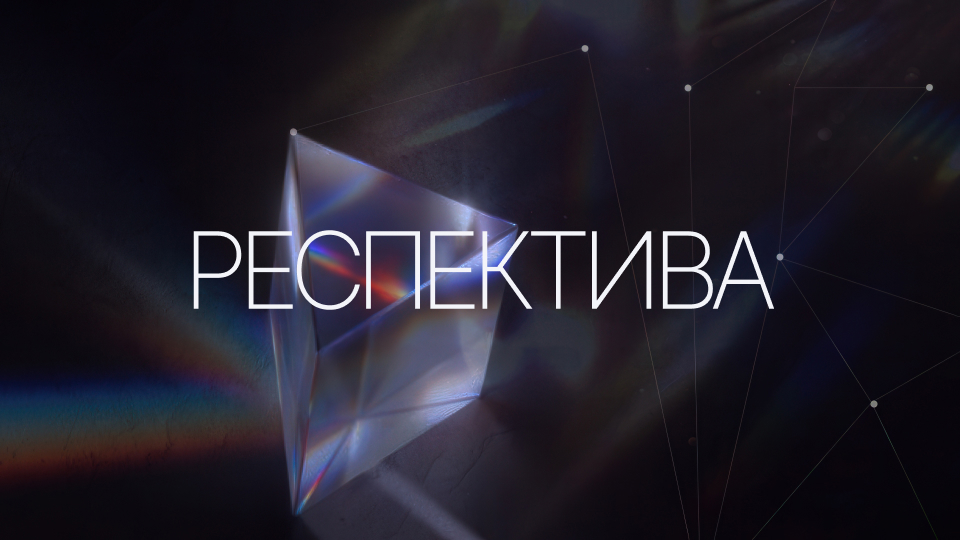
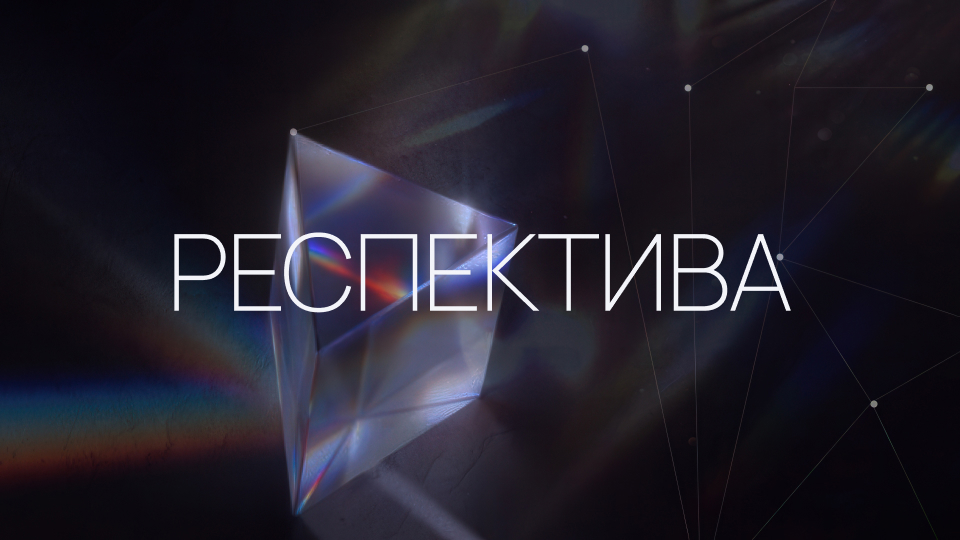
c

Changed region(s): [[0.1562, 0.4148, 0.8438, 0.5926]]

diff --git a/stylesheets/layout.css b/stylesheets/layout.css
@@ -7,4 +7,35 @@ body {
   display: block;
   margin: 0 auto;
   font-family: 'Montserrat';
+  position: relative;
+  scroll-behavior: smooth;
+}
+:root {
+  --white: #f3f4f9;
+  --grey: #8e8e94;
+  --grey-dark: #48494e;
+  --dark: #26262c;
+}
+h1 {
+  color: var(--white);
+  font-size: 213px;
+  line-height: 87%; /* 62.4px */
+  letter-spacing: -4.26px;
+  text-transform: uppercase;
+}
+h2 {
+  color: var(--white);
+  font-size: 48px;
+  line-height: 130%; /* 62.4px */
+  text-transform: uppercase;
+}
+a {
+  color: var(--white);
+}
+a:hover {
+  color: var(--grey);
+}
+
+a:visited {
+  color: var(--grey-dark);
 }
